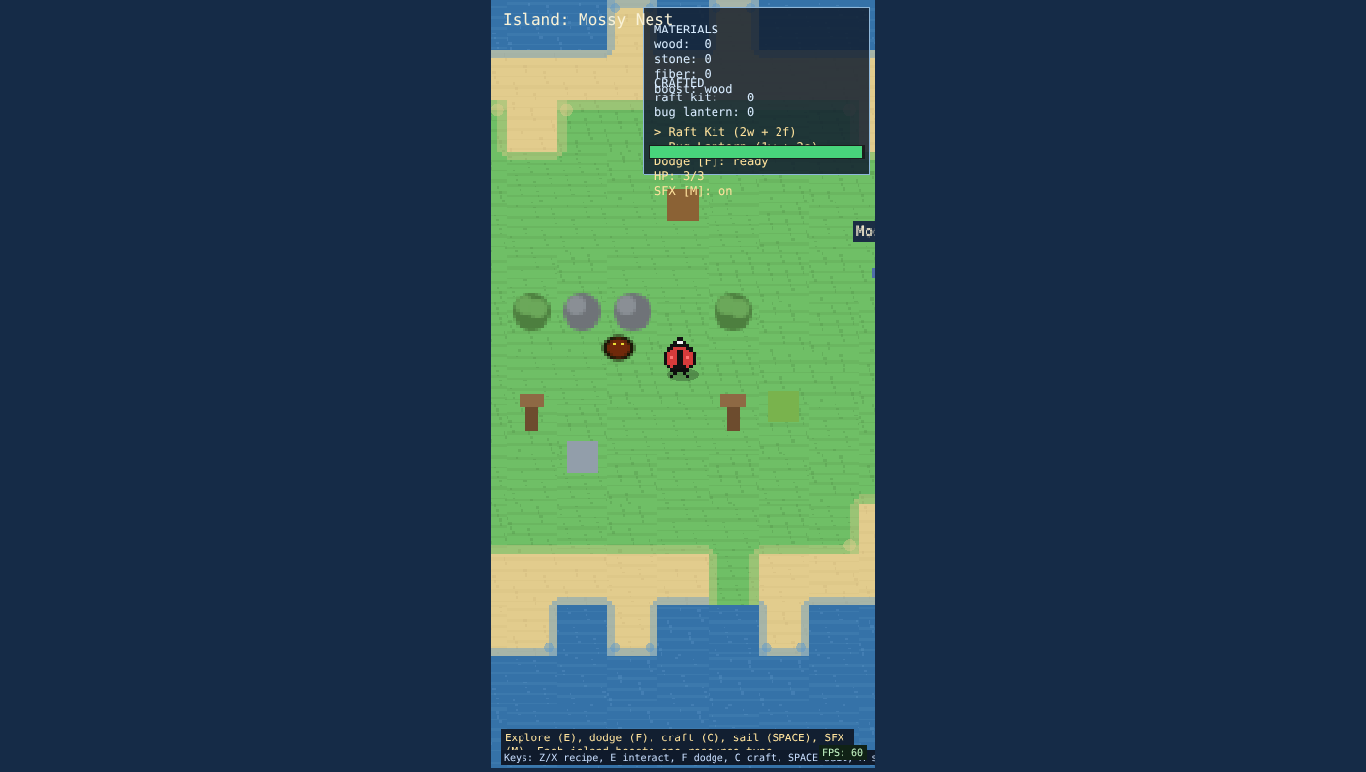
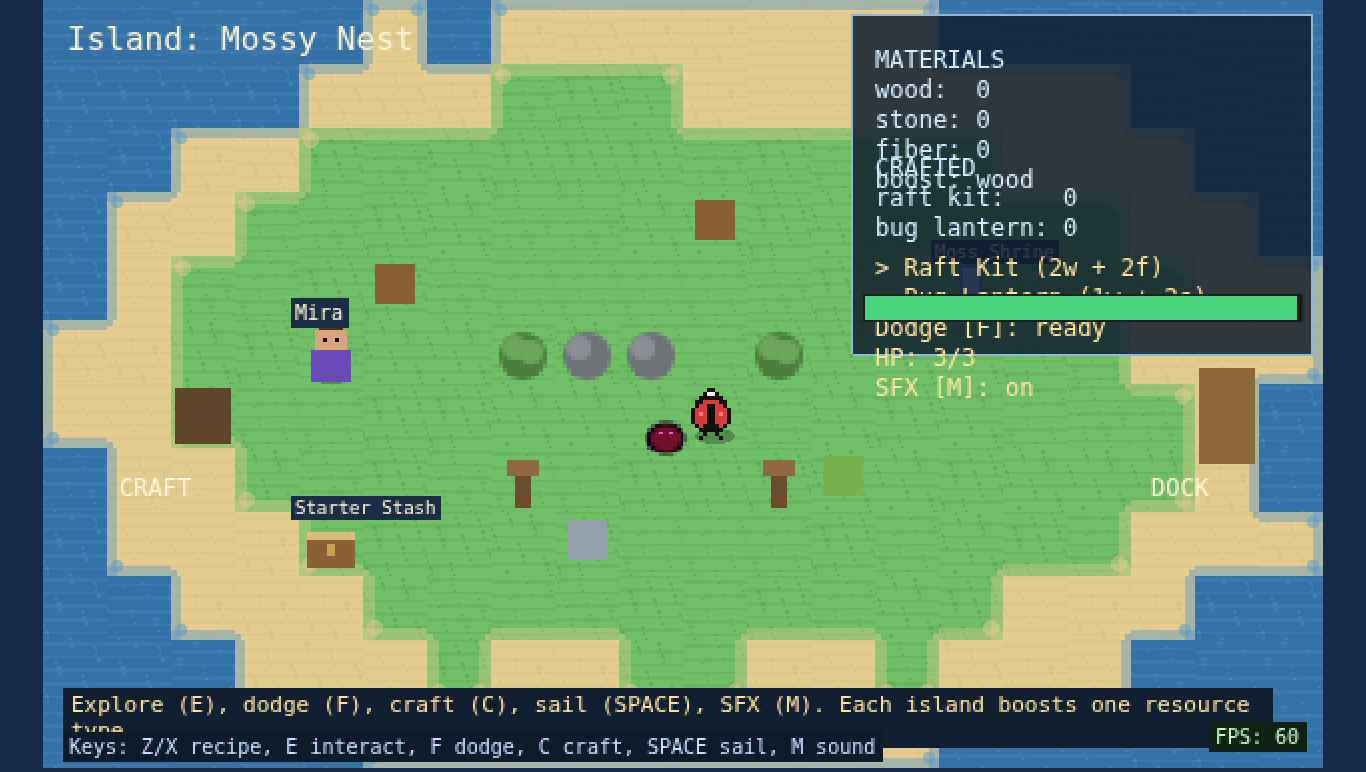
Enhance hit feedback with screen shake and stronger status messaging
- Add camera shake effect (200ms, 8px intensity) when taking damage from beetles
- Increase red flash intensity from 0xff0000 to 0xff3333 for more visibility
- Improve status messages with visual indicators (⚠ CRASH!, ⚡ PERFECT DODGE!)
- Make hit feedback more impactful and memorable

Fixes P0-4: Better hit feedback (screen shake/light flash + stronger status messaging)

diff --git a/src/main.ts b/src/main.ts
@@ -408,8 +408,12 @@ class AdventureScene extends Phaser.Scene {
     if (this.currentHP <= 0) return
 
     this.currentHP -= amount
-    this.damageFlashTime = this.time.now + 150
-    this.damageFlashColor = 0xff0000
+    this.damageFlashTime = this.time.now + 120
+    this.damageFlashColor = 0xff3333
+
+    // Screen shake: stronger for beetle encounter
+    const shakeIntensity = 8
+    this.cameras.main.shake(200, shakeIntensity / 100)
 
     if (this.currentHP <= 0) {
       this.currentHP = this.maxHP
@@ -1185,7 +1189,7 @@ class AdventureScene extends Phaser.Scene {
       if (now < this.dodgeUntil) {
         // Player dodged, give bonus once per encounter cooldown window
         this.inventory.fiber += 1
-        this.setStatus('Perfect dodge! +1 fiber.')
+        this.setStatus('⚡ PERFECT DODGE! +1 fiber!')
         this.playSfx([660, 880], 0.05, 0.07, 'triangle')
         this.updateHud()
         this.saveNow()
@@ -1201,12 +1205,12 @@ class AdventureScene extends Phaser.Scene {
         if (lootable.length > 0) {
           const stolen = Phaser.Utils.Array.GetRandom(lootable)
           this.inventory[stolen] = Math.max(0, this.inventory[stolen] - 1)
-          this.setStatus(`A beetle rammed you! -1 ${stolen}, HP-${1} and slowed for 2.5s.`)
+          this.setStatus(`⚠ CRASH! -1 ${stolen}, HP-1, slowed 2.5s!`)
         } else {
-          this.setStatus('A beetle rammed you! HP-1, slowed for 2.5s.')
+          this.setStatus('⚠ CRASH! HP-1, slowed 2.5s!')
         }
       } else {
-        this.setStatus('Wounded! The island heals you to full.')
+        this.setStatus('💔 Wounded! Island heals you to full HP.')
       }
 
       this.playSfx([185, 165], 0.05, 0.11, 'sawtooth')
